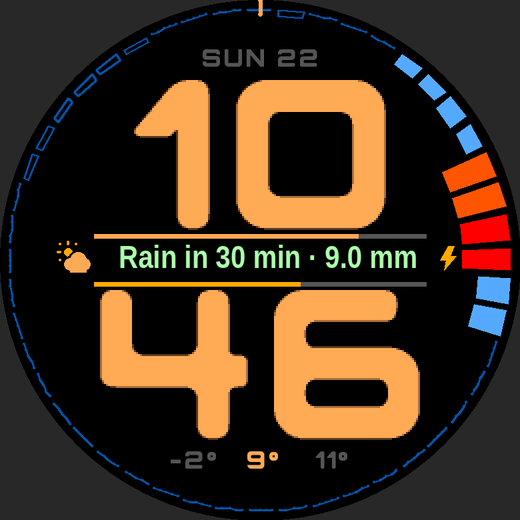
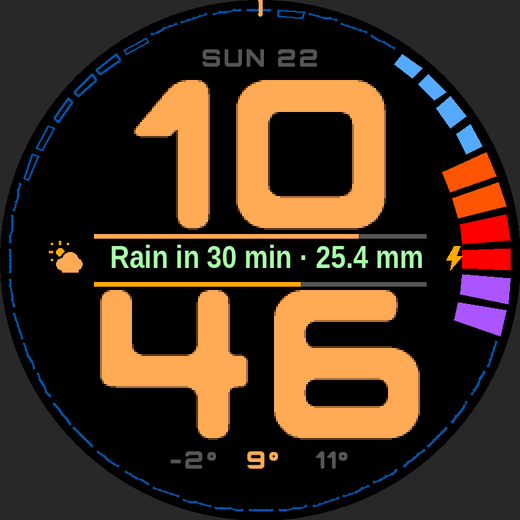
Violet bars for the most extreme rain (25 mm/h and more); red from 15 mm/h
Scale: blues by amount, orange from 8 mm/h, red from 15 mm/h or thunder,
violet from 25 mm/h (the most the forecast carries) and for freezing rain.

Claude-Session: https://claude.ai/code/session_015HmYPjfyQ65s3v6ZviQxa9

Changed region(s): [[0.2154, 0.4615, 0.9846, 0.6462], [0.0923, 0.4615, 0.1846, 0.5231]]

diff --git a/src/c/draw.c b/src/c/draw.c
@@ -231,13 +231,15 @@ static bool light_bg(const Theme *th) {
 // Colour of a rain bar from the amount (0.1 mm per hour) and the hour's
 // weather code. Theme blues grade light, medium and heavy rain; then fixed
 // warning colours: orange for strong rain (8 mm/h and more), red for a
-// thunderstorm or a downpour (20 mm/h and more), violet for freezing rain
+// thunderstorm or a downpour (15 mm/h and more), violet for the most extreme
+// (25 mm/h and more, the most the forecast can carry) and for freezing rain
 // (ice on the ground). Snow is white (dark grey on light backgrounds). Mono
 // keeps its greys.
 static GColor rain_color(const Theme *th, int p, uint8_t code) {
 #ifdef PBL_COLOR
   if (g_set.theme != THEME_MONO) {
-    if (code >= 95 || p >= 200) return GColorRed;
+    if (p >= 250) return argb(0xE7);              // extreme, 25 mm/h and more: violet
+    if (code >= 95 || p >= 150) return GColorRed;
     if (p >= 80) return GColorOrange;
     if (code == 56 || code == 57 || code == 66 || code == 67) return argb(0xE7);  // freezing rain: violet
     if ((code >= 71 && code <= 77) || code == 85 || code == 86) {

diff --git a/tools/preview/stub.c b/tools/preview/stub.c
@@ -43,6 +43,7 @@ static void fake(time_t now, int scenario) {
     g_wx.code[i] = 2; g_wx.prob[i] = 10; g_wx.gust[i] = 20; g_wx.uv[i] = g_wx.day[i] ? 20 : 0;
     if (i >= 3 && i <= 7) { g_wx.precip[i] = (uint8_t)(i == 5 ? 90 : i * 4); g_wx.prob[i] = 80; g_wx.code[i] = scenario == 1 ? 73 : 61; }
     if (i == 6 && scenario != 1) { g_wx.precip[i] = 60; g_wx.code[i] = 95; }  // thunderstorm
+    if (i == 7 && scenario != 1) g_wx.precip[i] = 254;  // extreme
     if (i >= 20 && i <= 22) { g_wx.precip[i] = 3; g_wx.prob[i] = 35; g_wx.code[i] = 51; }
   }
   g_wx.m15_t0 = (uint32_t)(now - now % 1800); g_wx.m15_count = 8;
